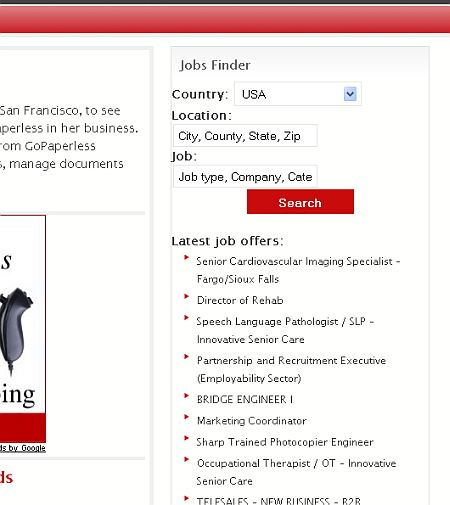
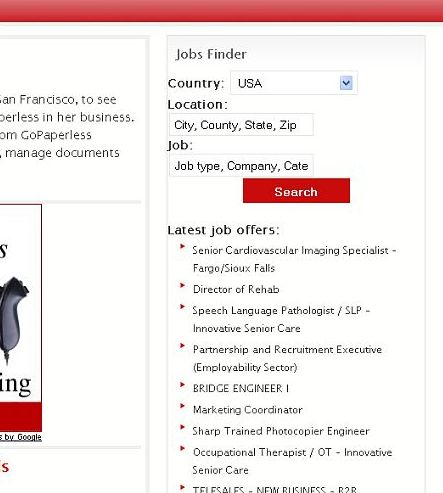
New update 2.1
git-svn-id: https://plugins.svn.wordpress.org/jobs-finder/trunk@512867 b8457f37-d9ea-0310-8a92-e5e31aec5664

diff --git a/jobs-finder.php b/jobs-finder.php
@@ -1,30 +1,57 @@
 <?php
 /*
 Plugin Name: Jobs Finder
-Version: 2.0
 Plugin URI: http://www.onlinerel.com/wordpress-plugins/  
 Description: Plugin "Jobs Finder" gives visitors the opportunity to more than one million offer of employment.  Jobs search for U.S., Canada, UK, Australia
+Version: 2.1
 Author: A.Kilius
 Author URI: http://www.onlinerel.com/wordpress-plugins/
 */
+
+define(jobs_finder_URL_RSS_DEFAULT, 'http://www.superjobbank.com/category/jobs/feed/');
 define(jobs_finder_TITLE, 'Jobs Finder');
+define(jobs_finder_MAX_SHOWN_ITEMS, 4);
+
+add_action('admin_menu', 'jobs_finder_menu');                    
+function jobs_finder_menu() {
+	 add_menu_page('Jobs Finder', 'Jobs Finder', 8, __FILE__, 'jobs_finder_options');
+}
 
 function jobs_finder_widget_ShowRss($args)
 {
-	$options = get_option('jobs_finder_widget');
-	           
-	if( $options == false ) {
-		$options[ 'jobs_finder_widget_url_title' ] = jobs_finder_TITLE;
-	}
+        $options = get_option('jobs_finder_widget');
+                   
+        if( $options == false ) {
+                $options[ 'jobs_finder_widget_url_title' ] = jobs_finder_TITLE;
+                $options[ 'jobs_finder_widget_RSS_count_items' ] = jobs_finder_MAX_SHOWN_ITEMS;
+        }
+   
+$feed = jobs_finder_URL_RSS_DEFAULT;
 $title = $options[ 'jobs_finder_widget_url_title' ];
 $output .= '<!-- Jobs Finder:  http://www.onlinerel.com/wordpress-plugins/ -->';
 $output .= '<center><form name="form1" method="get" action="http://www.howfindajob.com/" target="_blank">
-<b>Job Type:</b> <input type="text" id="q"  name="q"  value="" /> <input type="submit" id="go" value="Find Jobs"/>
-</form>  ';
+ <input type="text" id="s"  name="s"  value="" /><input type="submit" id="go" value="Find Jobs"/>
+</form>  </center>';
 // end search form
-$output .= '<b>Latest job offers in:</b><br />';	
- $output .= '	<a target="_blank" href="http://www.howfindajob.com/?co=US">US</a> &nbsp;<a target="_blank" href="http://www.howfindajob.com/?co=CA">Canada</a> &nbsp; <a target="_blank" href="http://www.howfindajob.com/?co=GB">UK</a>&nbsp;<a target="_blank" href="http://www.howfindajob.com/?co=IE">Ireland</a>&nbsp; <a target="_blank" href="http://www.howfindajob.com/?co=AU">AU</a> &nbsp; <a target="_blank" href="http://www.howfindajob.com/?co=IN">India</a>&nbsp;<a target="_blank" href="http://www.howfindajob.com/?co=DE">Germany</a> &nbsp; <a target="_blank" href="http://www.howfindajob.com/?co=FR">France</a>   &nbsp;<a target="_blank" href="http://www.howfindajob.com/?co=NO">Norway</a>&nbsp;<a target="_blank" href="http://www.howfindajob.com/?co=SE">Sweden</a> &nbsp;<a target="_blank" href="http://www.howfindajob.com/?co=CN">China</a> &nbsp;<a target="_blank" href="http://www.howfindajob.com/?co=IS">Indonesia</a> ';
- $output .= '<br />
+$rss = fetch_feed( $feed );
+                if ( !is_wp_error( $rss ) ) :
+                        $maxitems = $rss->get_item_quantity($options['jobs_finder_widget_RSS_count_items'] );
+                        $items = $rss->get_items( 0, $maxitems );
+                                endif;
+ $output .= '<b>Latest job offers:</b>';       
+         $output .= '<ul>';     
+        if($items) {
+                        foreach ( $items as $item ) :
+                                // Create post object
+  $titlee = trim($item->get_title());
+ $output .= '<li> <a href="';
+ $output .=  $item->get_permalink();
+  $output .= '"  title="'.$titlee.'" target="_blank">';
+$output .= $titlee.'</a></span>';               
+$output .= '</li>';
+                        endforeach;             
+        }
+ $output .= '</ul><center>
  <form name="form2" method="post" action="http://www.superjobbank.com/post-your-free-ad/" target="_blank" >
  <input type="submit" name="submit" class="submit" value="Post a Job" /></form> 
 </center> ';	 			
@@ -37,33 +64,31 @@ extract($args);
 
 function jobs_finder_widget_Admin()
 {
-	$options = $newoptions = get_option('jobs_finder_widget');	
-	//default settings
-	if( $options == false ) {
-		$newoptions[ 'jobs_finder_widget_url_title' ] = jobs_finder_TITLE;
-	}
-     	if ( $_POST["jobs_finder_widget_url_title"] ) {
-		$newoptions['jobs_finder_widget_url_title'] = strip_tags(stripslashes($_POST["jobs_finder_widget_url_title"]));
-	}	                                                                                        
-
-	if ( $options != $newoptions ) {
-		$options = $newoptions;
-		update_option('jobs_finder_widget', $options);		
-	}
-	$jobs_finder_widget_url_title = wp_specialchars($options['jobs_finder_widget_url_title']);
-	?>
-	<p><label for="jobs_finder_widget_url_title"><?php _e('Title:'); ?> <input style="width: 350px;" id="jobs_finder_widget_url_title" name="jobs_finder_widget_url_title" type="text" value="<?php echo $jobs_finder_widget_url_title; ?>" /></label></p> 
-	<br clear='all'></p>
+        $options = $newoptions = get_option('jobs_finder_widget');     
+        //default settings
+        if( $options == false ) {
+                $newoptions[ 'jobs_finder_widget_url_title' ] = jobs_finder_TITLE;
+                $newoptions['jobs_finder_widget_RSS_count_items'] = jobs_finder_MAX_SHOWN_ITEMS;               
+        }
+        if ( $_POST["jobs_finder_widget_RSS_count_items"] ) {
+                $newoptions['jobs_finder_widget_url_title'] = strip_tags(stripslashes($_POST["jobs_finder_widget_url_title"]));
+                $newoptions['jobs_finder_widget_RSS_count_items'] = strip_tags(stripslashes($_POST["jobs_finder_widget_RSS_count_items"]));
+        }       
+                                                                                                         
+        if ( $options != $newoptions ) {
+                $options = $newoptions;
+                update_option('jobs_finder_widget', $options);         
+        }
+        $jobs_finder_widget_url_title = wp_specialchars($options['jobs_finder_widget_url_title']);
+        $jobs_finder_widget_RSS_count_items = $options['jobs_finder_widget_RSS_count_items'];   
+        ?>
+        <p><label for="jobs_finder_widget_url_title"><?php _e('Title:'); ?> <input style="width: 350px;" id="jobs_finder_widget_url_title" name="jobs_finder_widget_url_title" type="text" value="<?php echo $jobs_finder_widget_url_title; ?>" /></label></p>
+        <p><label for="jobs_finder_widget_RSS_count_items"><?php _e('Count Items To Show:'); ?> <input  id="jobs_finder_widget_RSS_count_items" name="jobs_finder_widget_RSS_count_items" size="2" maxlength="2" type="text" value="<?php echo $jobs_finder_widget_RSS_count_items?>" /></label></p>   
+        <br clear='all'></p>
  
-
-	<?php
+        <?php
 }
 
-add_action('admin_menu', 'jobs_finder_menu');
-                    
-function jobs_finder_menu() {
-	add_options_page('Jobs Finder', 'Jobs Finder', 8, __FILE__, 'jobs_finder_options');
-}
                                             
 add_filter("plugin_action_links", 'jobs_finder_ActionLink', 10, 2);
                                                        
@@ -80,11 +105,11 @@ function jobs_finder_ActionLink( $links, $file ) {
 function jobs_finder_options() {	
 	?>
 	<div class="wrap">
-		<h2>Jobs Finder</h2>                                                               
-
+		<h2>Jobs Finder</h2>     
 <p><b>Plugin "Jobs Finder" gives visitors the opportunity to more than 1 million offer of employment.
 Jobs search for U.S., Canada, UK, Australia</b> </p>
-<p> <h3>Add the widget "Jobs Finder"  to your sidebar from  <a href="<? echo "./widgets.php";?>"> Appearance->Widgets</a>  and configure the widget options.</h3></p>
+<p> <h3>Add the widget "Jobs Finder"  to your sidebar from  <a href="<? echo "./widgets.php";?>"> Appearance->Widgets</a>  and configure the widget options.</h3>
+<h3>More <a href="http://www.onlinerel.com/wordpress-plugins/" target="_blank"> WordPress Plugins</a></h3></p>
                            
   	</div>
 	<?php  }
